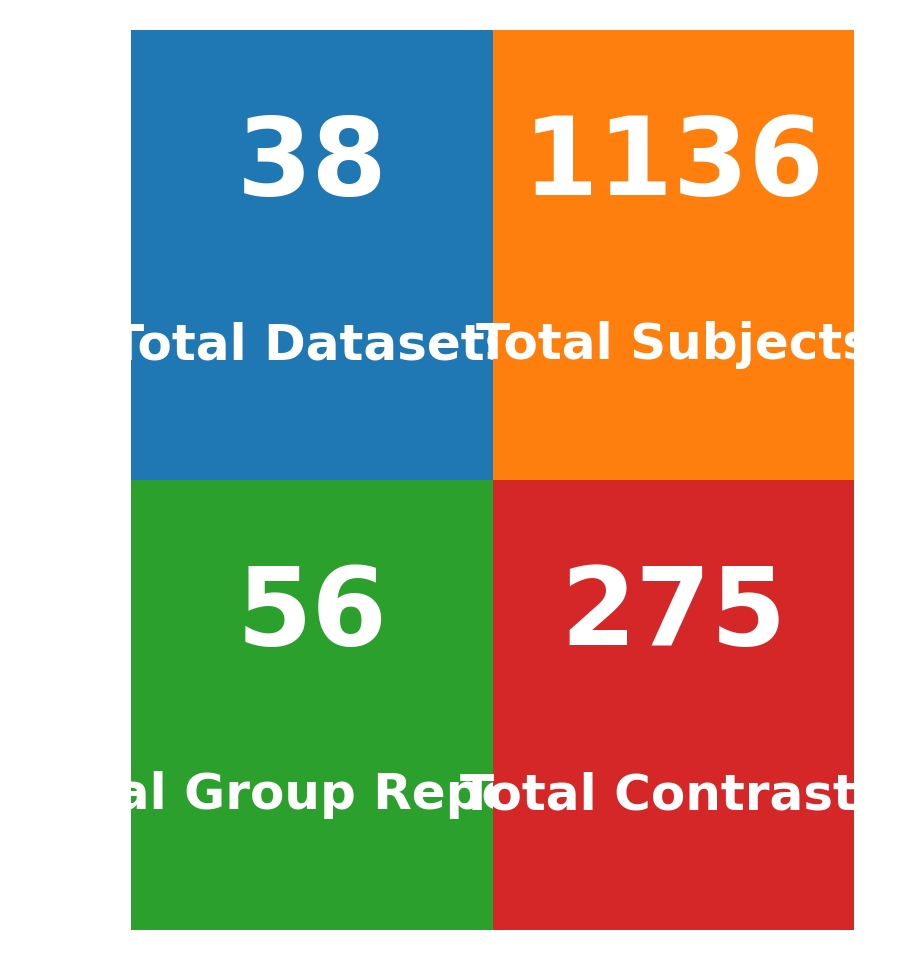
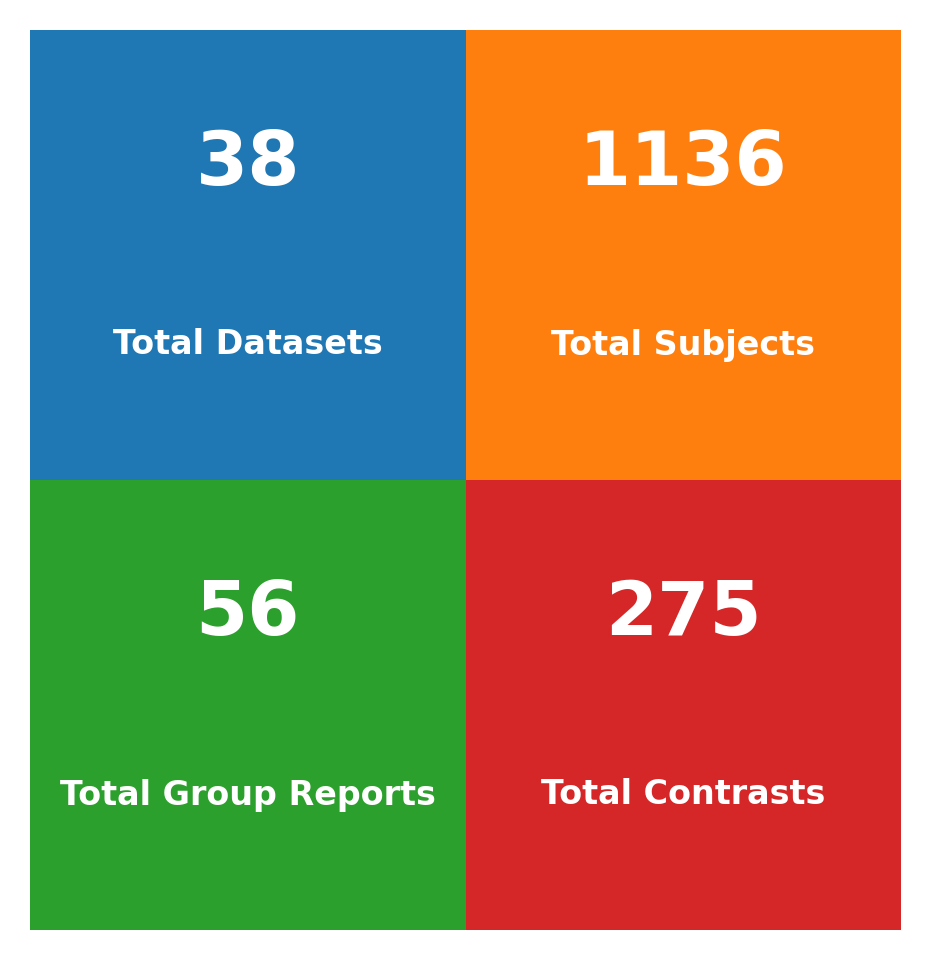
retest hook for figgi

diff --git a/scripts/prep_report_py/main_readme_figrepo.py b/scripts/prep_report_py/main_readme_figrepo.py
@@ -91,30 +91,30 @@ colors = ['#1f77b4', '#ff7f0e', '#2ca02c', '#d62728']  # Blue, Orange, Green, Re
 # Panel 1: N datasets
 ax1.add_patch(plt.Rectangle((0, 0), 1, 1, facecolor=colors[0]))
 ax1.text(0.5, 0.7, str(total_studies), ha='center', va='center', 
-         fontsize=26, fontweight='bold', color='white')
+         fontsize=18, fontweight='bold', color='white')
 ax1.text(0.5, 0.3, 'Total Datasets', ha='center', va='center', 
-         fontsize=12, fontweight='bold', color='white')
+         fontsize=8, fontweight='bold', color='white')
 
 # Panel 2: N Subjects
 ax2.add_patch(plt.Rectangle((0, 0), 1, 1, facecolor=colors[1]))
 ax2.text(0.5, 0.7, str(total_subjects), ha='center', va='center', 
-         fontsize=26, fontweight='bold', color='white')
+         fontsize=18, fontweight='bold', color='white')
 ax2.text(0.5, 0.3, 'Total Subjects', ha='center', va='center', 
-         fontsize=12, fontweight='bold', color='white')
+         fontsize=8, fontweight='bold', color='white')
 
 # Panel 3: N Group Reports
 ax3.add_patch(plt.Rectangle((0, 0), 1, 1, facecolor=colors[2]))
 ax3.text(0.5, 0.7, str(total_group_reports), ha='center', va='center', 
-         fontsize=26, fontweight='bold', color='white')
+         fontsize=18, fontweight='bold', color='white')
 ax3.text(0.5, 0.3, 'Total Group Reports', ha='center', va='center', 
-         fontsize=12, fontweight='bold', color='white')
+         fontsize=8, fontweight='bold', color='white')
 
 # Panel 4: N Computed Contrasts
 ax4.add_patch(plt.Rectangle((0, 0), 1, 1, facecolor=colors[3]))
 ax4.text(0.5, 0.7, str(total_contrasts), ha='center', va='center', 
-         fontsize=26, fontweight='bold', color='white')
+         fontsize=18, fontweight='bold', color='white')
 ax4.text(0.5, 0.3, 'Total Contrasts', ha='center', va='center', 
-         fontsize=12, fontweight='bold', color='white')
+         fontsize=8, fontweight='bold', color='white')
 
 # no ticks/axes
 for ax in [ax1, ax2, ax3, ax4]:
